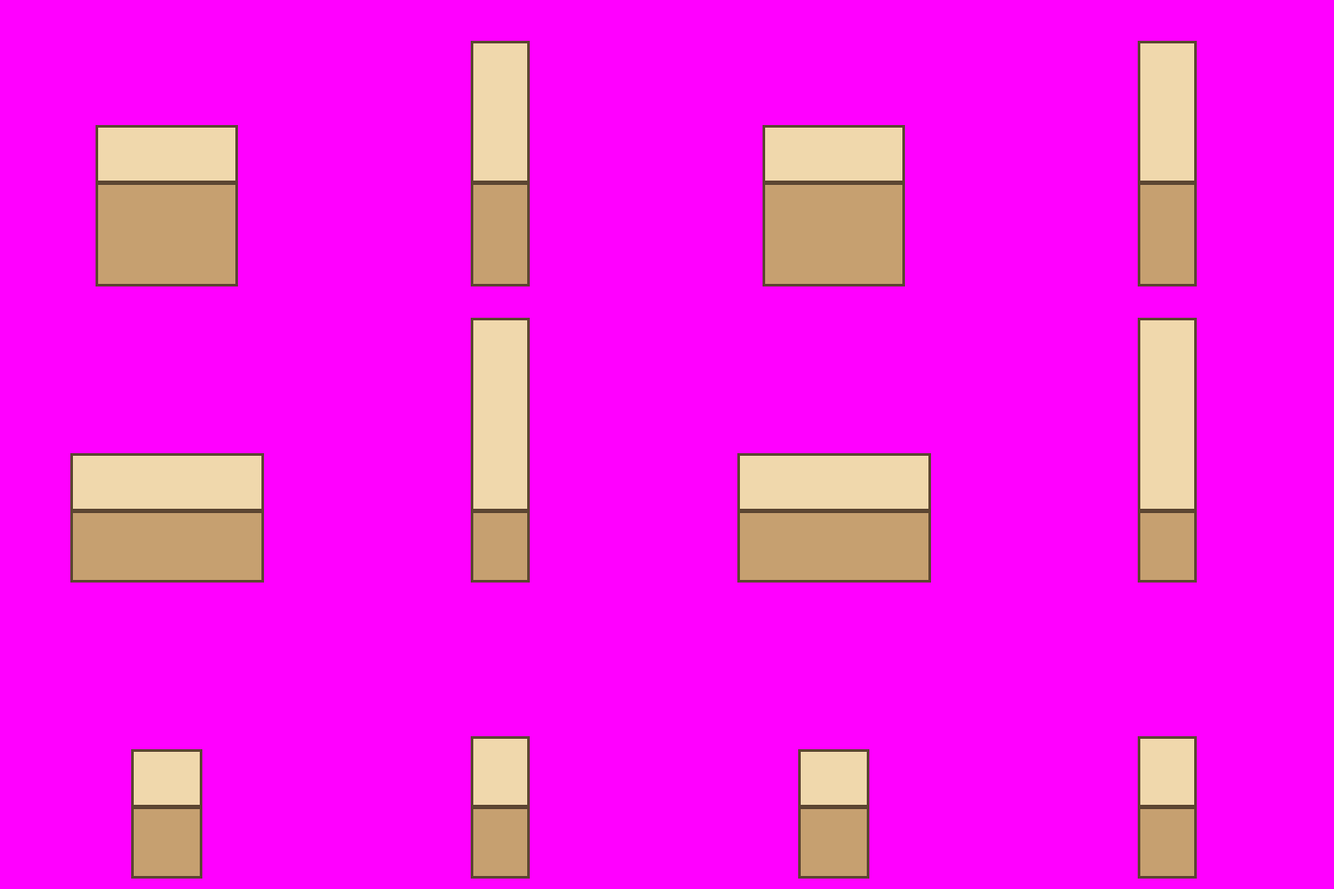
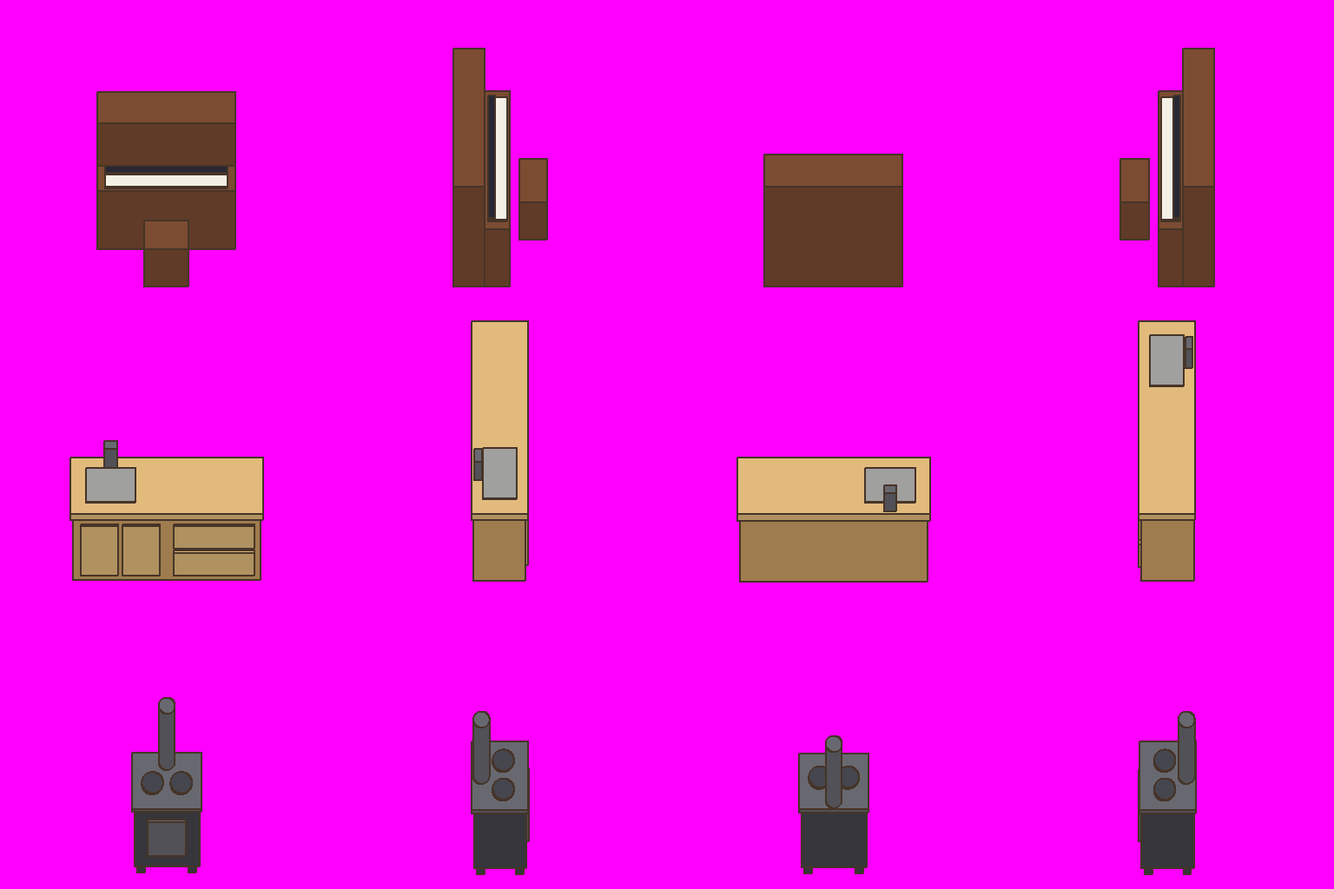
furniture: round 2 guides, every piece modelled from blocks and drawn in the room's own projection in four views; round 1 (blank boxes) failed the angle check, recorded with the numbers

diff --git a/furniture_guides.py b/furniture_guides.py
@@ -1,41 +1,88 @@
 # -*- coding: utf-8 -*-
-# Furniture guides, four views of every piece (owner, 4 Oct: redo the whole plain set at a steeper camera angle; four views of every piece).
-# The room's floor is drawn as seen from straight above (a tile is square) and its walls at full height. Furniture must use the same rule:
-#   the TOP of a piece is drawn at its full depth, and under it the side that faces the viewer at its full height.
-# So each view is a box: width x (depth + height), in floor tiles. 74 px per tile here; the game uses 32.
-import json
-from PIL import Image, ImageDraw
-PX = 74; W, H = 1536, 1024; MAG = (255, 0, 255); TOP = (240, 216, 172); FACE = (198, 160, 112); LINE = (92, 70, 50)
-# piece: (width along its front, depth front-to-back, height) in tiles
-D = {'bed': (1.6, 3.0, 0.7), 'wardrobe': (2.0, 0.9, 2.4), 'desk': (1.8, 0.9, 1.0), 'piano': (2.2, 0.9, 1.6),
-     'counter': (3.0, 0.9, 1.1), 'stove': (1.1, 0.9, 1.1), 'shelf': (2.0, 0.6, 1.4), 'sofa': (2.6, 1.1, 1.0),
-     'bathtub': (2.4, 1.1, 0.8), 'toilet': (0.8, 1.1, 0.9), 'washstand': (1.2, 0.7, 1.1)}
-ONE = {'plant': ('round', 0.8, 1.2), 'roundtable': ('round', 2.4, 0.9), 'rug': ('flat', 3.0, 2.0), 'washtub': ('round', 1.2, 0.7)}
-SHEETS = {'A': ['bed', 'wardrobe', 'desk'], 'B': ['piano', 'counter', 'stove'], 'C': ['shelf', 'sofa', 'bathtub'], 'D': ['toilet', 'washstand', '*singles']}      # three pieces a sheet: big enough for the painter to draw detail
-CW, CH = W // 4, H // 3; meta = {}
-def box(d, cx, base, w, dep, h):
-    x0, x1 = cx - w * PX / 2, cx + w * PX / 2; y_face0 = base - h * PX; y_top0 = y_face0 - dep * PX
-    d.rectangle((x0, y_top0, x1, y_face0), fill=TOP, outline=LINE, width=3); d.rectangle((x0, y_face0, x1, base), fill=FACE, outline=LINE, width=3)
-    return [round(x0), round(y_top0), round(x1), round(base)]
+# Furniture "paint-over" guides, round 2 (4 Oct). Round 1 gave the painter plain two-tone boxes and it ignored them and drew its usual low camera.
+# This time every piece is modelled from small blocks and drawn in the room's own projection, so the guide already LOOKS like the furniture:
+#   screen x = across, screen y = depth toward the viewer minus height. The floor is seen from straight above, every upright side at full height.
+# Each piece is drawn four times: facing the viewer, facing right, facing away, facing left. 72 px per floor tile (the game uses 32).
+import json, numpy as np
+from PIL import Image
+PX = 72; W, H = 1536, 1024; CW, CH = W // 4, H // 3; MAG = (255, 0, 255)
+PINE = (226, 186, 124); PINE2 = (204, 160, 100); DARKW = (124, 76, 50); BLUE = (120, 142, 172); WHITE = (244, 240, 230); IRON = (70, 70, 78); IRON2 = (104, 104, 112)
+BEIGE = (214, 196, 160); BEIGE2 = (196, 176, 140); STONE = (160, 160, 158); BOOK = (150, 70, 60); INK = (40, 40, 52); CLAY = (190, 110, 70); LEAF = (90, 160, 80); RUG = (150, 110, 80); RUG2 = (176, 138, 100); TUBIN = (150, 112, 70); JAR = (200, 190, 170); JAR2 = (120, 150, 110)
+B = lambda u0, u1, v0, v1, z0, z1, c: ('box', u0, u1, v0, v1, z0, z1, c)          # u across the front, v from the back (0) to the front, z up
+CYL = lambda u, v, r, z0, z1, c: ('cyl', u, v, r, z0, z1, c)
+PIECES = {
+ 'bed': (1.6, 3.0, [B(0, 1.6, 0.15, 2.85, 0, 0.45, PINE), B(0.08, 1.52, 0.2, 2.8, 0.45, 0.7, BLUE), B(0.08, 1.52, 0.2, 1.0, 0.7, 0.72, WHITE), B(0.3, 1.3, 0.3, 0.85, 0.72, 0.86, WHITE),
+                    B(0, 1.6, 0, 0.15, 0, 1.3, PINE2), B(0, 1.6, 2.85, 3.0, 0, 0.8, PINE2)]),
+ 'wardrobe': (2.0, 0.9, [B(0, 2.0, 0, 0.86, 0, 2.3, PINE), B(-0.05, 2.05, -0.03, 0.9, 2.3, 2.4, PINE2), B(0.08, 0.98, 0.86, 0.9, 0.15, 2.2, PINE2), B(1.02, 1.92, 0.86, 0.9, 0.15, 2.2, PINE2),
+                         B(0.86, 0.94, 0.9, 0.93, 1.1, 1.25, IRON), B(1.06, 1.14, 0.9, 0.93, 1.1, 1.25, IRON)]),
+ 'desk': (1.8, 0.9, [B(0, 1.8, 0, 0.9, 0.9, 1.0, PINE), B(0.05, 0.17, 0.05, 0.85, 0, 0.9, PINE2), B(1.15, 1.75, 0.05, 0.85, 0.35, 0.9, PINE2), B(1.63, 1.75, 0.05, 0.85, 0, 0.35, PINE2),
+                     B(0.25, 0.75, 0.2, 0.65, 1.0, 1.08, BOOK), B(1.25, 1.45, 0.2, 0.4, 1.0, 1.16, INK), CYL(0.72, 1.2, 0.27, 0, 0.55, PINE2)]),
+ 'piano': (2.2, 0.9, [B(0, 2.2, 0, 0.5, 0, 1.6, DARKW), B(0, 2.2, 0.5, 0.9, 0, 0.92, DARKW), B(0.12, 2.08, 0.55, 0.86, 0.92, 0.95, WHITE), B(0.12, 2.08, 0.55, 0.66, 0.95, 0.98, INK),
+                      B(0.75, 1.45, 1.05, 1.5, 0, 0.6, DARKW)]),
+ 'counter': (3.0, 0.9, [B(0, 3.0, 0.02, 0.86, 0, 1.0, PINE2), B(-0.04, 3.04, 0, 0.9, 1.0, 1.1, PINE), B(0.2, 1.0, 0.18, 0.72, 1.1, 1.12, STONE), B(0.5, 0.7, 0.04, 0.16, 1.1, 1.4, IRON2),
+                        B(0.12, 0.72, 0.86, 0.9, 0.12, 0.9, PINE), B(0.78, 1.38, 0.86, 0.9, 0.12, 0.9, PINE), B(1.6, 2.9, 0.86, 0.9, 0.55, 0.9, PINE), B(1.6, 2.9, 0.86, 0.9, 0.12, 0.48, PINE)]),
+ 'stove': (1.1, 0.9, [B(0.03, 1.07, 0.03, 0.87, 0.15, 1.05, IRON), B(0, 1.1, 0, 0.9, 1.05, 1.1, IRON2), CYL(0.32, 0.5, 0.17, 1.1, 1.12, IRON), CYL(0.78, 0.5, 0.17, 1.1, 1.12, IRON), CYL(0.55, 0.15, 0.13, 1.1, 2.0, IRON2),
+                      B(0.25, 0.85, 0.87, 0.91, 0.35, 0.9, IRON2), B(0.08, 0.2, 0.08, 0.2, 0, 0.15, IRON), B(0.9, 1.02, 0.08, 0.2, 0, 0.15, IRON), B(0.08, 0.2, 0.7, 0.82, 0, 0.15, IRON), B(0.9, 1.02, 0.7, 0.82, 0, 0.15, IRON)]),
+ 'shelf': (2.0, 0.6, [B(0, 2.0, 0, 0.08, 0, 1.4, PINE2), B(0, 0.1, 0, 0.6, 0, 1.4, PINE), B(1.9, 2.0, 0, 0.6, 0, 1.4, PINE), B(0, 2.0, 0, 0.6, 1.32, 1.4, PINE), B(0.1, 1.9, 0.08, 0.6, 0.62, 0.7, PINE), B(0.1, 1.9, 0.08, 0.6, 0, 0.08, PINE),
+                      CYL(0.45, 0.35, 0.16, 1.4, 1.7, JAR), CYL(1.4, 0.32, 0.14, 1.4, 1.62, JAR2), CYL(0.5, 0.38, 0.15, 0.7, 0.98, JAR2), CYL(1.0, 0.38, 0.15, 0.7, 1.0, JAR), CYL(1.5, 0.38, 0.15, 0.7, 0.95, CLAY), CYL(0.7, 0.38, 0.17, 0.08, 0.4, CLAY), CYL(1.35, 0.38, 0.17, 0.08, 0.42, IRON)]),
+ 'sofa': (2.6, 1.1, [B(0, 2.6, 0, 0.32, 0, 1.0, BEIGE2), B(0, 0.3, 0.32, 1.1, 0, 0.75, BEIGE2), B(2.3, 2.6, 0.32, 1.1, 0, 0.75, BEIGE2), B(0.3, 2.3, 0.32, 1.1, 0, 0.42, BEIGE2), B(0.33, 1.28, 0.34, 1.08, 0.42, 0.52, BEIGE), B(1.32, 2.27, 0.34, 1.08, 0.42, 0.52, BEIGE)]),
+ 'bathtub': (2.4, 1.1, [B(0, 2.4, 0, 1.1, 0, 0.8, PINE2), B(0.14, 2.26, 0.14, 0.96, 0.8, 0.81, TUBIN), B(0, 2.4, 1.1, 1.13, 0.2, 0.28, IRON), B(0, 2.4, 1.1, 1.13, 0.55, 0.63, IRON), B(-0.03, 0, 0, 1.1, 0.2, 0.28, IRON), B(-0.03, 0, 0, 1.1, 0.55, 0.63, IRON), B(2.4, 2.43, 0, 1.1, 0.2, 0.28, IRON), B(2.4, 2.43, 0, 1.1, 0.55, 0.63, IRON), B(0, 2.4, -0.03, 0, 0.2, 0.28, IRON), B(0, 2.4, -0.03, 0, 0.55, 0.63, IRON)]),
+ 'toilet': (0.8, 1.1, [B(0.08, 0.72, 0, 0.34, 0, 0.9, WHITE), B(0.05, 0.75, 0, 0.36, 0.9, 0.95, STONE), B(0.2, 0.6, 0.34, 0.6, 0, 0.42, WHITE), CYL(0.4, 0.72, 0.3, 0.2, 0.45, WHITE), CYL(0.4, 0.72, 0.2, 0.45, 0.46, STONE)]),
+ 'washstand': (1.2, 0.7, [B(0.04, 1.16, 0.03, 0.66, 0, 1.0, PINE2), B(0, 1.2, 0, 0.7, 1.0, 1.08, PINE), CYL(0.6, 0.35, 0.28, 1.08, 1.2, WHITE), CYL(0.6, 0.35, 0.2, 1.2, 1.21, STONE), B(0.12, 0.62, 0.66, 0.7, 0.15, 0.85, PINE), B(0.72, 1.08, 0.7, 0.76, 0.3, 0.9, WHITE)]),
+}
+ONE = {'plant': (0.8, 0.8, [CYL(0.4, 0.4, 0.3, 0, 0.5, CLAY), CYL(0.4, 0.4, 0.4, 0.5, 1.1, LEAF)]),
+       'roundtable': (2.4, 2.4, [CYL(1.2, 0.3, 0.26, 0, 0.5, PINE2), CYL(0.3, 1.2, 0.26, 0, 0.5, PINE2), CYL(2.1, 1.2, 0.26, 0, 0.5, PINE2), CYL(1.2, 1.2, 0.16, 0, 0.82, PINE2), CYL(1.2, 1.2, 0.7, 0.82, 0.9, PINE), CYL(1.2, 2.1, 0.26, 0, 0.5, PINE2)]),
+       'rug': (3.0, 2.0, [B(0, 3.0, 0, 2.0, 0, 0, RUG), B(0.2, 2.8, 0.2, 1.8, 0, 0.01, RUG2), B(0.4, 2.6, 0.4, 1.6, 0.01, 0.02, RUG)]),
+       'washtub': (1.2, 1.2, [CYL(0.6, 0.6, 0.6, 0, 0.65, PINE2), CYL(0.6, 0.6, 0.5, 0.65, 0.66, TUBIN), B(0.5, 1.0, 0.25, 0.33, 0.3, 1.15, STONE)])}
+SHEETS = {'A': ['bed', 'wardrobe', 'desk'], 'B': ['piano', 'counter', 'stove'], 'C': ['shelf', 'sofa', 'bathtub'], 'D': ['toilet', 'washstand', '*']}
+VIEWS = ['S', 'E', 'N', 'W']
+def tr(view, w, d, u, v):                                            # piece coordinates -> (across, depth toward the viewer)
+    return {'S': (u, v), 'E': (v, w - u), 'N': (w - u, d - v), 'W': (d - v, u)}[view]
+def render(parts, w, d, view):
+    prim = []
+    for p in parts:
+        if p[0] == 'box':
+            _, u0, u1, v0, v1, z0, z1, c = p; (xa, ya), (xb, yb) = tr(view, w, d, u0, v0), tr(view, w, d, u1, v1); prim.append(('box', min(xa, xb), max(xa, xb), min(ya, yb), max(ya, yb), z0, z1, c))
+        else:
+            _, u, v, r, z0, z1, c = p; x, y = tr(view, w, d, u, v); prim.append(('cyl', x, y, r, z0, z1, c))
+    xs0 = min(q[1] if q[0] == 'box' else q[1] - q[3] for q in prim); xs1 = max(q[2] if q[0] == 'box' else q[1] + q[3] for q in prim)
+    ys0 = min((q[3] - q[6]) if q[0] == 'box' else (q[2] - q[3] - q[5]) for q in prim); ys1 = max(q[4] if q[0] == 'box' else q[2] + q[3] for q in prim)
+    Wp, Hp = int(np.ceil((xs1 - xs0) * PX)) + 6, int(np.ceil((ys1 - ys0) * PX)) + 6
+    col = np.zeros((Hp, Wp, 3), np.uint8); dep = np.full((Hp, Wp), -1e9); fid = np.zeros((Hp, Wp), np.int32)
+    Y, X = np.mgrid[0:Hp, 0:Wp]; xw = (X - 3) / PX + xs0; yw = (Y - 3) / PX + ys0      # world coordinates of each pixel: across, and (depth - height)
+    k = 0
+    def put(mask, depth, c, shade):
+        nonlocal k; k += 1; m = mask & (depth > dep); col[m] = tuple(int(v * shade) for v in c); dep[m] = depth[m]; fid[m] = k
+    for q in prim:
+        if q[0] == 'box':
+            _, x0, x1, y0, y1, z0, z1, c = q; inx = (xw >= x0) & (xw < x1)
+            put(inx & (yw >= y0 - z1) & (yw < y1 - z1), yw + 2 * z1, c, 1.0)                      # top, seen from above
+            if z1 > z0: put(inx & (yw >= y1 - z1) & (yw < y1 - z0), 2 * y1 - yw, c, 0.78)         # the side facing the viewer
+        else:
+            _, x, y, r, z0, z1, c = q; dx = xw - x; inr = np.abs(dx) < r; half = np.sqrt(np.clip(r * r - dx * dx, 0, None)); yf = y + half
+            put(dx * dx + (yw + z1 - y) ** 2 < r * r, yw + 2 * z1, c, 1.0)
+            if z1 > z0: put(inr & (yw >= yf - z1) & (yw < yf - z0), 2 * yf - yw, c, 0.78)
+    edge = np.zeros((Hp, Wp), bool); edge[:, 1:] |= fid[:, 1:] != fid[:, :-1]; edge[1:, :] |= fid[1:, :] != fid[:-1, :]
+    edge2 = edge.copy(); edge2[:, :-1] |= edge[:, 1:]; edge2[:-1, :] |= edge[1:, :]
+    a = np.where(fid > 0, 255, 0).astype(np.uint8); col[edge2 & (fid > 0)] = (70, 52, 40); a[edge2] = 255; col[edge2 & (fid == 0)] = (70, 52, 40)
+    return Image.fromarray(np.dstack([col, a]), 'RGBA'), [round(xs1 - xs0, 2), round(ys1 - ys0, 2)]
+meta = {}
 for name, rows in SHEETS.items():
-    im = Image.new('RGB', (W, H), MAG); d = ImageDraw.Draw(im); meta[name] = {}
+    im = Image.new('RGBA', (W, H), MAG + (255,)); meta[name] = {}
     for r, piece in enumerate(rows):
-        base = r * CH + CH - 12
-        if piece == '*singles':
-            for c, (k, (kind, a, b)) in enumerate(ONE.items()):
-                cx = c * CW + CW // 2
-                if kind == 'flat': x0, x1 = cx - a * PX / 2, cx + a * PX / 2; d.rectangle((x0, base - b * PX, x1, base), fill=TOP, outline=LINE, width=3); bx = [round(x0), round(base - b * PX), round(x1), round(base)]
-                else:
-                    rad = a * PX / 2; d.rectangle((cx - rad, base - rad - b * PX, cx + rad, base - rad), fill=FACE); d.ellipse((cx - rad, base - 2 * rad, cx + rad, base), fill=FACE, outline=LINE, width=3)
-                    d.ellipse((cx - rad, base - 2 * rad - b * PX, cx + rad, base - b * PX), fill=TOP, outline=LINE, width=3); bx = [round(cx - rad), round(base - 2 * rad - b * PX), round(cx + rad), round(base)]
-                meta[name][k] = {'views': 1, 'box': bx, 'tiles': [a, a if kind == 'round' else b, b if kind == 'round' else 0]}
+        base = r * CH + CH - 8
+        if piece == '*':
+            for c, (k, (w, d, parts)) in enumerate(ONE.items()):
+                s, sz = render(parts, w, d, 'S'); x = c * CW + (CW - s.width) // 2; im.alpha_composite(s, (x, base - s.height)); meta[name][k] = {'views': 1, 'box': [x, base - s.height, x + s.width, base], 'tiles': sz, 'foot': [w, d]}
             continue
-        w, dep, h = D[piece]; meta[name][piece] = {'views': 4, 'tiles_w_d_h': [w, dep, h], 'boxes': []}
-        for c, (bw, bd) in enumerate(((w, dep), (dep, w), (w, dep), (dep, w))):          # facing the viewer, facing right, facing away, facing left
-            meta[name][piece]['boxes'].append(box(d, c * CW + CW // 2, base, bw, bd, h))
-    im.save(f'3_guide-{name}.png')
+        w, d, parts = PIECES[piece]; meta[name][piece] = {'views': 4, 'foot_w_d': [w, d], 'boxes': [], 'tiles': []}
+        for c, v in enumerate(VIEWS):
+            s, sz = render(parts, w, d, v); x = c * CW + (CW - s.width) // 2; assert s.height <= CH - 4, (piece, v, s.height); im.alpha_composite(s, (x, base - s.height)); meta[name][piece]['boxes'].append([x, base - s.height, x + s.width, base]); meta[name][piece]['tiles'].append(sz)
+    im.convert('RGB').save(f'2_guide-{name}.png')
 json.dump({'px_per_tile': PX, 'cell': [CW, CH], 'columns': ['facing viewer', 'facing right', 'facing away', 'facing left'], 'sheets': meta}, open('furniture_guides.json', 'w'))
-tall = max((dd + hh) for (ww, dd, hh) in D.values()); tall2 = max((ww + hh) for (ww, dd, hh) in D.values()); print('tallest box in tiles: front views', tall, '| side views', tall2, '| cell holds', round((CH - 16) / PX, 2))
-S = Image.new('RGB', (W // 2 * 2 + 10, H // 2 * 2 + 10), (20, 20, 20))
-for i, n in enumerate('ABCD'): S.paste(Image.open(f'3_guide-{n}.png').resize((W // 2, H // 2)), ((i % 2) * (W // 2 + 10), (i // 2) * (H // 2 + 10)))
-S.save('_guides.png'); print(S.size)
+S = Image.new('RGB', (W + 10, H * 2 + 10), (20, 20, 20))
+for i, n in enumerate('AB'): S.paste(Image.open(f'2_guide-{n}.png'), (0, i * (H + 10)))
+S.resize((1152, int((H * 2 + 10) * 1152 / (W + 10)))).save('_AB.png')
+S = Image.new('RGB', (W + 10, H * 2 + 10), (20, 20, 20))
+for i, n in enumerate('CD'): S.paste(Image.open(f'2_guide-{n}.png'), (0, i * (H + 10)))
+S.resize((1152, int((H * 2 + 10) * 1152 / (W + 10)))).save('_CD.png'); print('ok')

diff --git a/HANDOFF_S13.md b/HANDOFF_S13.md
@@ -5,6 +5,7 @@
 ## สถานะ
 - เกม: https://phoneyjung.github.io/Leah-PP/ · โหมด GM: `?gm` · repo: https://github.com/phoneyjung/Leah-PP · อัปไฟล์: https://github.com/phoneyjung/Leah-PP/upload/main
 - **พื้นใหม่ไม่มีดอกไม้ (อยู่ในรุ่น 1.17 ที่อัป 4 ต.ค.):** เจ้าของส่งภาพ 5 ภาพ เลือก 4 (`art-G9b-ground-*.png`) · หญ้าเรียบ · ดอกไม้เป็นชิ้นแยก 168 ดอก 60 กลุ่ม วางตามกติกา (ใกล้ต้นไม้ พุ่ม รั้ว เป็นหลัก) · กอหญ้าใช้สีตามสนามหญ้าอัตโนมัติ · แปลงดินของเราวางทับแปลงที่ AI วาด (ของ AI มีรอยเส้นที่ขอบล่าง) · ภาพพื้นของเกมเหลือ 713 KB (เดิม 973)
+- **เกณฑ์ของเจ้าของสำหรับเฟอร์นิเจอร์ (4 ต.ค.): ต้องได้ 9.5 ขึ้นไป** ดูที่ (1) องศาตรงกับฉาก (2) แต่ละทิศสอดคล้องกัน (3) สวย (4) อื่น ๆ · ไม่ผ่าน = ทำพรอมป์ใหม่ · **รอบกล่องเปล่า (20 ภาพ แผ่น A–D แผ่นละ 5) ไม่ผ่านทุกภาพ:** AI ไม่วาดทับกล่อง (พิกเซลที่วาดอยู่ในกล่องแค่ 33–44%) และวาดมุมต่ำเหมือนชุดแรก: เตียงหันหาคนดู 1 : 1.10–1.37 (ภาพนำ 1 : 2.3) · หน้าโต๊ะกลมลึก/กว้าง 0.44–0.53 = ราว 26–32° (ต้องเป็นวงกลม) · ความสอดคล้องระหว่างทิศดี (9) สวย (9) องศา (4) · สาเหตุ: กล่องไม่มีรายละเอียดให้ยึด และแนบแผ่นเฟอร์นิเจอร์มุมต่ำเป็นแบบหน้าตา AI จึงลอกมุมกล้องจากแผ่นนั้น · **รอบใหม่:** `furniture_guides.py` ปั้นแต่ละชิ้นจากบล็อกเล็ก ๆ แล้ววาดด้วยตัววาดมุมเฉียงที่มีบัฟเฟอร์ความลึก (x = แนวขวาง · y = ความลึก − ความสูง) ทั้ง 4 ทิศ → ภาพนำ `furniture-guide-A..D.png` ดูเป็นเฟอร์นิเจอร์ในมุมกล้องของห้องแล้ว · 72 px ต่อช่อง (เกม 32 → ×0.444) · ไม่แนบแผ่นเฟอร์นิเจอร์เก่าอีก · พรอมป์สั่งเป็นงานวาดทับ ห้ามวาดใหม่จากมุมอื่น · `furniture-camera-preview.jpg` = รูปทรงบล็อกวางในห้องจริง ยืนยันว่ามุมกล้องนี้เข้ากับห้อง · กล่องของแต่ละชิ้นและขนาดเป็นช่องอยู่ใน `furniture_guides.json`
 - **เฟอร์นิเจอร์: เจ้าของตัดสิน (4 ต.ค.)** (1) **4 มุมทุกชิ้น** (2) **เจนใหม่ทั้งชุด มุมก้มสูงขึ้น** เพราะชุดแรกไม่ผ่านเรื่ององศา (เจ้าของ: "ดูองศาของเฟอร์ด้วย ถ้าไม่เข้ากับห้องก็ไม่ผ่าน") (3) ของที่เคยวางในบ้านแบบเก่า **ลบทิ้ง เริ่มใหม่** · **ผลตรวจองศาชุดแรก** (`art-furniture-plain.png` วางในห้องจริง สเกลเดียว 0.47): พื้นห้องวาดแบบมองตรงจากบน (กระเบื้องจัตุรัส) แต่เฟอร์นิเจอร์มองจากราว 33° (วัดจากหน้าโต๊ะกลม ลึก/กว้าง 0.55) · ตู้ เคาน์เตอร์ เตา ชั้น เปียโน ผ่าน · เตียงไม่ผ่าน (กว้าง:ยาว 1:1.1 ควรราว 1:2) · **กติกามุมกล้องของเฟอร์นิเจอร์ (ใหม่):** ด้านบนของชิ้นวาดเต็มความลึกแบบมองจากบน และใต้ลงมาเป็นด้านที่หันหาคนดูเต็มความสูง ไม่เห็นด้านอื่น ไม่มีเส้นเฉียง = กติกาเดียวกับห้อง · **ภาพนำ 4 แผ่น** `furniture-guide-A..D.png` (`furniture_guides.py` · ขนาดกล่องและตารางใน `furniture_guides.json`): 74 px ต่อช่อง (เกม 32 → ย่อ ×0.432) · แผ่นละ 3 แถว × 4 คอลัมน์ · คอลัมน์ = หันหาคนดู · หันขวา · หันหลัง · หันซ้าย · A: เตียง 1.6×3.0×0.7 ตู้เสื้อผ้า 2.0×0.9×2.4 โต๊ะ 1.8×0.9×1.0 · B: เปียโน 2.2×0.9×1.6 เคาน์เตอร์ 3.0×0.9×1.1 เตา 1.1×0.9×1.1 · C: ชั้น 2.0×0.6×1.4 โซฟา 2.6×1.1×1.0 อ่างอาบน้ำ 2.4×1.1×0.8 · D: โถส้วม 0.8×1.1×0.9 อ่างล้างหน้า 1.2×0.7×1.1 + แถวชิ้นเดี่ยว (ต้นไม้ โต๊ะกลม+สตูล พรม 3×2 ถังซักผ้า) (หน่วย: กว้าง×ลึก×สูง เป็นช่อง) · ของกลมและพรมมีภาพเดียว เกมใช้ซ้ำทุกทิศ · **วิธีนี้ยังไม่เคยลองกับเฟอร์นิเจอร์** แนะนำเจ้าของรันแผ่น A ก่อน · พรอมป์ชุดสวย (เฟอร์นิเจอร์ 12 ชิ้น และห้องน้ำ/ครัว 12 ชิ้น) ที่ส่งไปก่อน **ยกเลิก** เพราะเป็นมุมหน้าเดียวมุมต่ำ จะทำใหม่ด้วยวิธีเดียวกันเมื่อชุดธรรมดาผ่าน
 - **ได้ภาพห้องเปล่าขั้น 1 และเฟอร์นิเจอร์ชุดธรรมดาแล้ว (4 ต.ค.) ยังไม่ได้ใส่เกม:** ห้อง 5 ภาพ เลือก `art-room-L1.png` (ผนังทับผัง 0.86 ดีที่สุด หน้าต่าง 6 บานตรงตำแหน่งผัง) · เฟอร์นิเจอร์ 5 แผ่น ทุกแผ่นครบ 15 ชิ้น เลือก `art-furniture-plain.png` (คมที่สุด) ลำดับชิ้น: เตียง ตู้เสื้อผ้า โต๊ะ+สตูล เปียโน ต้นไม้ / เคาน์เตอร์ครัว เตา โต๊ะกลม+สตูล โซฟา พรม / ชั้น อ่างไม้ โถส้วม อ่างล้างหน้า ถังซักผ้า · **เจ้าของถาม: เฟอร์นิเจอร์ต้องทำมุมอื่นไหมเพราะหมุนได้** ข้อเท็จจริงจากโค้ด: โหมดจัดบ้านมีแค่กลับซ้ายขวา (`DEC.tool==='flip'` → `f.fl`) ไม่มีหมุน 4 ทิศ · ถามเจ้าของแล้วว่าจะเอาแบบไหน (มุมเดียว / เพิ่มมุมข้างของชิ้นใหญ่ / 4 มุม) และของในเซฟเดิมจะทำอย่างไร รอคำตอบก่อนเขียนโค้ดฉากในบ้าน
 - **ฉากในบ้านตามแปลนใหม่: เจ้าของตัดสิน 3 ข้อ (4 ต.ค.) และส่งภาพนำ + พรอมป์แล้ว รอภาพ** (1) ผนังกั้นห้อง **ตัดเตี้ย** เห็นทุกห้องพร้อมกัน ผนังหลังบนสุดเท่านั้นที่สูงเต็ม (2) ของในบ้าน **แถมมากับบ้านเป็นแบบธรรมดา ไม่สวย แต่เปลี่ยนได้ ขยับได้** → ภาพห้องเป็นห้องเปล่า ของทุกชิ้นเป็นสไปรต์ในระบบจัดบ้าน · ต้องมี 2 ชุด: ชุดธรรมดา (แถม) กับชุดสวย (ซื้อ) (3) ระดับบ้าน 4–9: ทำ 3 ขั้นก่อน ค่อยตัดสิน · เจ้าของสั่ง: **ไม่มั่นใจอะไรให้ถามก่อนทำ** · ภาพนำ `house-room-guide-L1.png` (`house_room_guide.py`): 1536×1024 · 1 ช่องแปลน = 59 px · แถว 0 ของแปลนอยู่ที่ y=158 x=1 · ผนังหลังสูง 3 ช่อง (แถว 0 + 2 แถวเหนือขึ้นไป) หน้าต่าง 6 บาน · ผนังอื่นเป็นสันเตี้ย มีหน้าผนังครึ่งช่องใต้ผนังแนวนอนภายใน · กลับเป็นขนาดเกม: ครอป x 1..1535, y 40..984 แล้วย่อ ×32/59 → 832×512 (26×16 ช่อง: 2 แถวบนเป็นผนังหลัง) · พรอมป์ที่ส่ง: ห้องเปล่าขั้น 1 และชุดเฟอร์นิเจอร์ธรรมดา 15 ชิ้น · พรอมป์ A เดิม (ผัง 14×10) ยกเลิก · พรอมป์เฟอร์นิเจอร์ 12 ชิ้นกับของห้องน้ำ/ครัว 12 ชิ้นที่ส่งก่อนหน้า = ชุดสวยสำหรับซื้อ · **งานโค้ดที่ตามมา:** `HSZ` ใหม่ · ฉากห้องแบบภาพวาด + ตารางชนจากแปลน · ระบบจัดบ้านต้องรองรับของหลายช่อง · ของแถมเริ่มต้นวางตามแปลน · เซฟเดิม: ของที่เคยวางไว้คืนเข้าคลัง · เปียโนเล่นได้ · ยังไม่ได้เริ่ม
